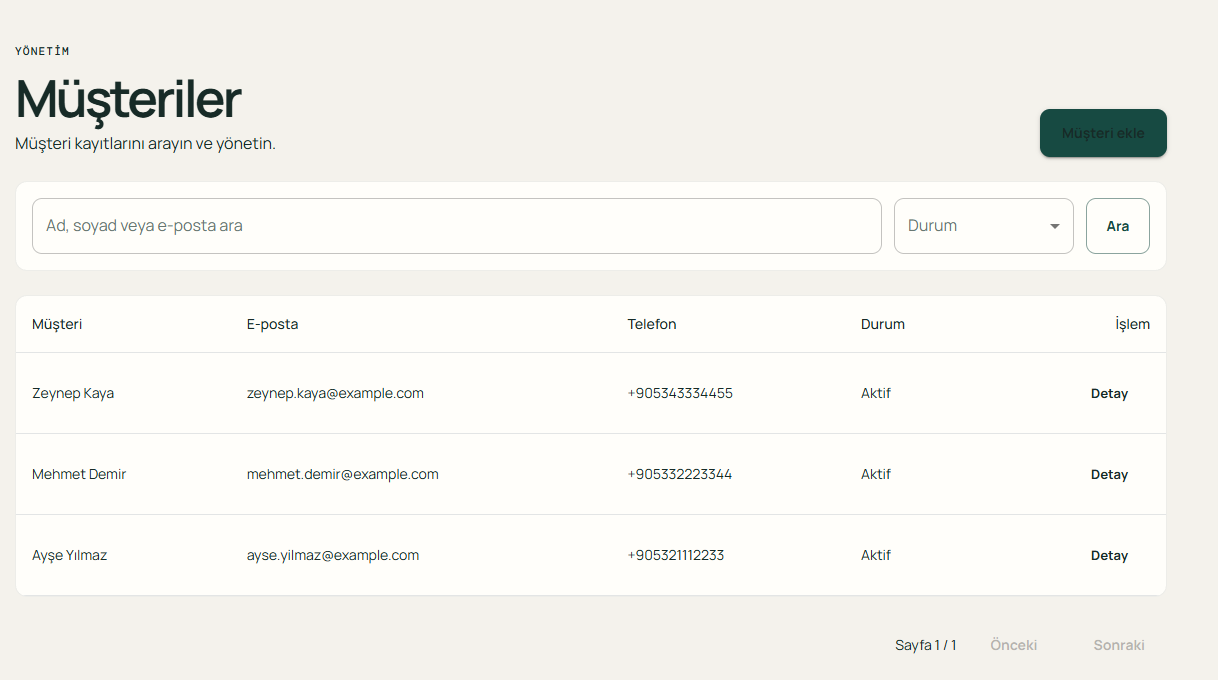
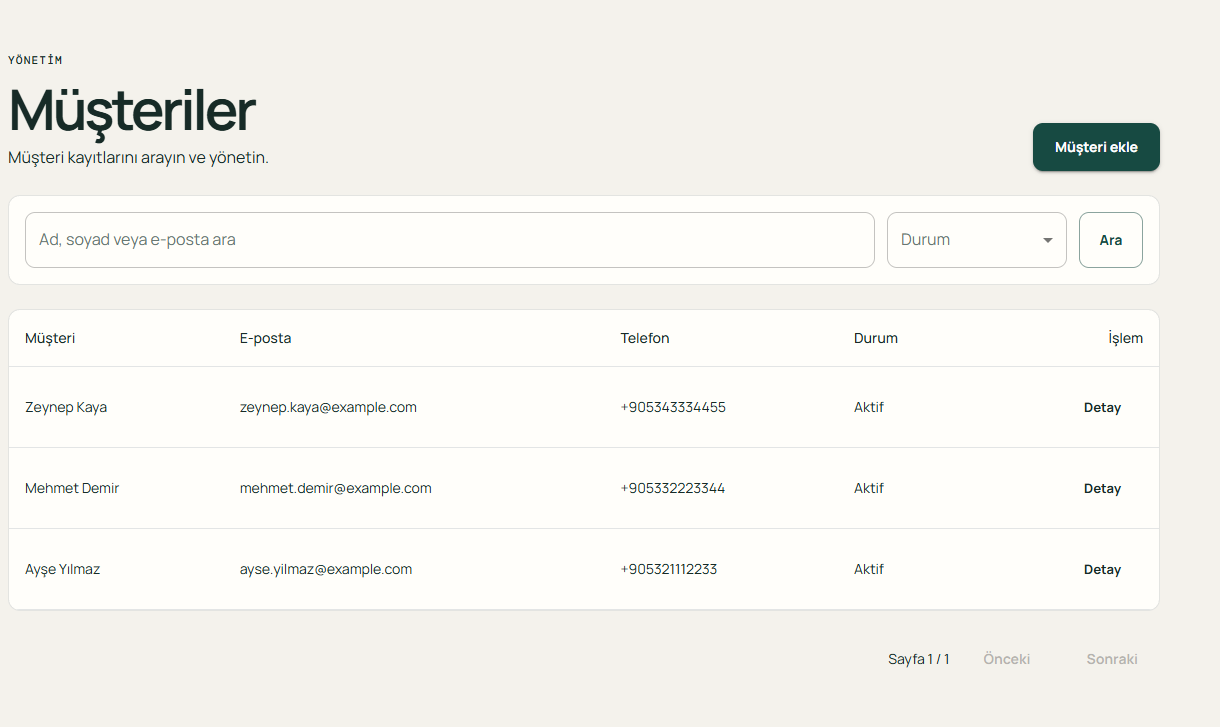
fixed

diff --git a/apps/web/src/app/page.tsx b/apps/web/src/app/page.tsx
@@ -25,7 +25,16 @@ const principles = [
 
 export default function HomePage() {
   return (
-    <Box component="main" className="site-shell" sx={{ color: 'text.primary' }}>
+    <Box
+      component="main"
+      className="site-shell"
+      sx={{
+        minHeight: '100vh',
+        color: 'text.primary',
+        bgcolor: 'background.default',
+        backgroundImage: 'inherit',
+      }}
+    >
       <Container maxWidth="lg">
         <Box
           component="header"
@@ -60,7 +69,14 @@ export default function HomePage() {
 
           <Stack direction="row" spacing={{ xs: 1, sm: 2 }} sx={{ alignItems: 'center' }}>
             <ThemeModeToggle />
-            <Button component="a" href="/login" size="small" variant="contained" color="primary">
+            <Button
+              component="a"
+              href="/login"
+              size="small"
+              variant="contained"
+              color="primary"
+              style={{ color: 'var(--primary-action-text)' }}
+            >
               Giriş yap
             </Button>
             <Button
@@ -138,6 +154,7 @@ export default function HomePage() {
                 rel="noreferrer"
                 variant="contained"
                 color="primary"
+                style={{ color: 'var(--primary-action-text)' }}
                 endIcon={
                   <Box component="span" aria-hidden="true">
                     ↗
@@ -170,18 +187,21 @@ export default function HomePage() {
               overflow: 'hidden',
               p: { xs: 2.5, sm: 3.5 },
               borderRadius: '20px',
-              bgcolor: 'primary.dark',
-              color: '#F7F4EA',
-              boxShadow: '0 32px 90px rgba(16, 53, 47, 0.18)',
+              bgcolor: 'primary.main',
+              color: 'primary.contrastText',
+              boxShadow: '0 32px 90px rgba(0, 0, 0, 0.18)',
             }}
           >
             <Stack spacing={3}>
               <Stack direction="row" sx={{ justifyContent: 'space-between', alignItems: 'center' }}>
                 <Box>
-                  <Typography variant="overline" sx={{ color: 'rgba(247, 244, 234, 0.58)' }}>
+                  <Typography
+                    variant="overline"
+                    sx={{ color: 'primary.contrastText', opacity: 0.72 }}
+                  >
                     İŞLEM AKIŞI
                   </Typography>
-                  <Typography variant="h3" sx={{ mt: 0.5, color: '#F7F4EA' }}>
+                  <Typography variant="h3" sx={{ mt: 0.5 }}>
                     Baştan sona kayıtlı
                   </Typography>
                 </Box>
@@ -193,8 +213,10 @@ export default function HomePage() {
                     display: 'grid',
                     placeItems: 'center',
                     borderRadius: '50%',
-                    border: '1px solid rgba(247, 244, 234, 0.22)',
-                    color: '#C9D98F',
+                    border: '1px solid',
+                    borderColor: 'divider',
+                    color: 'primary.contrastText',
+                    opacity: 0.72,
                     fontSize: '1.2rem',
                   }}
                 >
@@ -202,7 +224,7 @@ export default function HomePage() {
                 </Box>
               </Stack>
 
-              <Divider sx={{ borderColor: 'rgba(247, 244, 234, 0.14)' }} />
+              <Divider sx={{ borderColor: 'divider' }} />
 
               <Stack spacing={0}>
                 {[
@@ -217,18 +239,19 @@ export default function HomePage() {
                     sx={{
                       alignItems: 'flex-start',
                       py: 2.1,
-                      borderBottom: index < 2 ? '1px solid rgba(247, 244, 234, 0.12)' : 'none',
+                      borderBottom: index < 2 ? '1px solid' : 'none',
+                      borderColor: 'divider',
                     }}
                   >
-                    <Typography variant="overline" sx={{ pt: 0.4, color: '#C9D98F', minWidth: 30 }}>
+                    <Typography
+                      variant="overline"
+                      sx={{ pt: 0.4, color: 'primary.contrastText', opacity: 0.72, minWidth: 30 }}
+                    >
                       {step}
                     </Typography>
                     <Box>
-                      <Typography sx={{ fontWeight: 700, color: '#F7F4EA' }}>{title}</Typography>
-                      <Typography
-                        variant="body2"
-                        sx={{ mt: 0.5, color: 'rgba(247, 244, 234, 0.62)' }}
-                      >
+                      <Typography sx={{ fontWeight: 700 }}>{title}</Typography>
+                      <Typography variant="body2" sx={{ mt: 0.5, opacity: 0.72 }}>
                         {detail}
                       </Typography>
                     </Box>
@@ -240,11 +263,15 @@ export default function HomePage() {
                 sx={{
                   p: 2,
                   borderRadius: '12px',
-                  bgcolor: 'rgba(247, 244, 234, 0.08)',
-                  border: '1px solid rgba(247, 244, 234, 0.1)',
+                  bgcolor: 'action.hover',
+                  border: '1px solid',
+                  borderColor: 'divider',
                 }}
               >
-                <Typography variant="overline" sx={{ color: 'rgba(247, 244, 234, 0.56)' }}>
+                <Typography
+                  variant="overline"
+                  sx={{ color: 'primary.contrastText', opacity: 0.72 }}
+                >
                   SONUÇ
                 </Typography>
                 <Stack
@@ -258,8 +285,8 @@ export default function HomePage() {
                     size="small"
                     label="TAMAMLANDI"
                     sx={{
-                      bgcolor: 'rgba(201, 217, 143, 0.16)',
-                      color: '#D9E9A3',
+                      bgcolor: 'action.selected',
+                      color: 'primary.contrastText',
                       fontFamily: 'var(--font-dm-mono), monospace',
                       fontSize: '0.6rem',
                     }}
